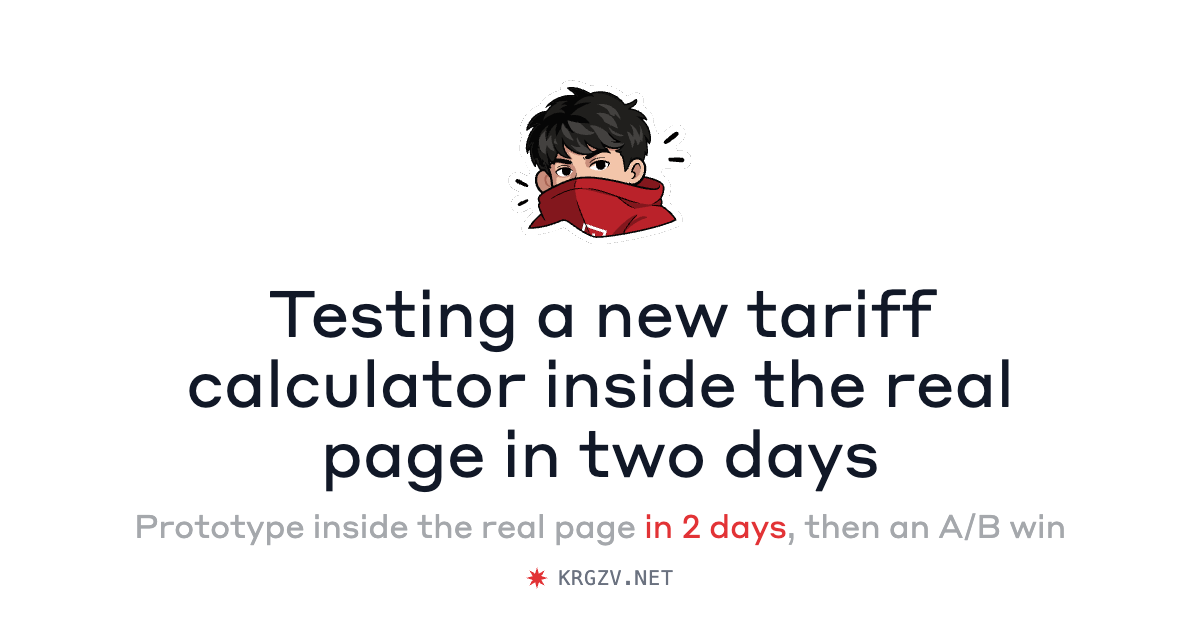
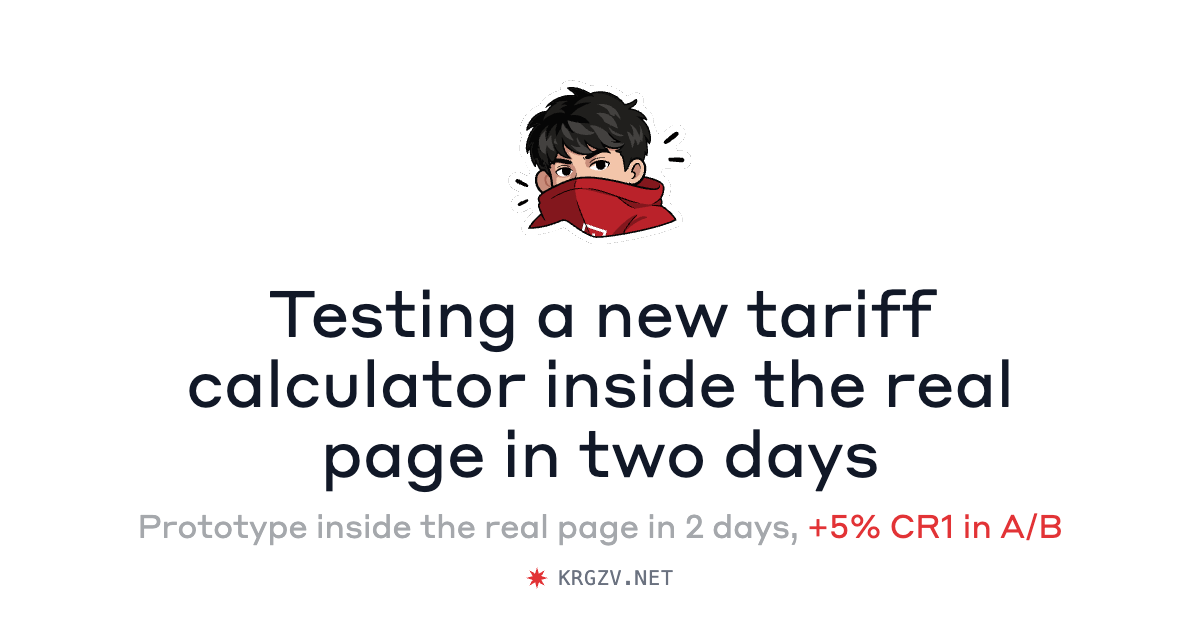
Calculator case: +5% CR1 in the A/B test — stats, results, home card, llms.txt, OG

Changed region(s): [[0.0925, 0.8143, 0.8942, 0.8746]]

diff --git a/cases/calculator.html b/cases/calculator.html
@@ -5,18 +5,18 @@
 <meta name="viewport" content="width=device-width, initial-scale=1">
 
 <title>Testing a new tariff calculator inside the real page in two days — Vladislav Kurguzov</title>
-<meta name="description" content="Case study: Alfa-Bank merchant acquiring — a working AI prototype embedded into the site page for research, then a redesigned tariff calculator that won its A/B test.">
+<meta name="description" content="Case study: Alfa-Bank merchant acquiring — a working AI prototype embedded into the site page for research, then a redesigned tariff calculator: +5% CR1 in an A/B test.">
 <meta property="og:type" content="article">
 <meta property="og:site_name" content="Vladislav Kurguzov">
 <meta property="og:url" content="https://krgzv.net/cases/calculator.html">
 <meta property="og:title" content="Testing a new tariff calculator inside the real page in two days">
-<meta property="og:description" content="Case study: Alfa-Bank merchant acquiring — a working AI prototype embedded into the site page for research, then a redesigned tariff calculator that won its A/B test.">
+<meta property="og:description" content="Case study: Alfa-Bank merchant acquiring — a working AI prototype embedded into the site page for research, then a redesigned tariff calculator: +5% CR1 in an A/B test.">
 <meta property="og:image" content="https://krgzv.net/assets/og/calculator.png">
 <meta property="og:image:width" content="1200">
 <meta property="og:image:height" content="630">
 <meta name="twitter:card" content="summary_large_image">
 <meta name="twitter:title" content="Testing a new tariff calculator inside the real page in two days">
-<meta name="twitter:description" content="Case study: Alfa-Bank merchant acquiring — a working AI prototype embedded into the site page for research, then a redesigned tariff calculator that won its A/B test.">
+<meta name="twitter:description" content="Case study: Alfa-Bank merchant acquiring — a working AI prototype embedded into the site page for research, then a redesigned tariff calculator: +5% CR1 in an A/B test.">
 <meta name="twitter:image" content="https://krgzv.net/assets/og/calculator.png">
 <link rel="icon" href="../favicon.ico" sizes="32x32">
 <link rel="icon" href="../favicon.svg" type="image/svg+xml">
@@ -78,7 +78,7 @@
 <div class="c-stats">
   <div><b>2 days</b><span>from Figma to a working calculator inside the page</span></div>
   <div><b>0 of 8</b><span>respondents noticed they were using a prototype</span></div>
-  <div><b>12</b><span>hypotheses checked in one research round</span></div>
+  <div><b>+5%</b><span>visitors who start an application (CR1) in the A/B test against the old calculator</span></div>
 </div>
 
 <figure class="c-ba clear">
@@ -205,7 +205,7 @@
 <section class="c-sec">
   <h2 class="c-label">Results</h2>
   <div class="c-body">
-    <p class="c-big">In the A/B test the new calculator <em>beat the old one</em>.</p>
+    <p class="c-big">In the A/B test the new calculator raised CR1 — visitors who start an application — by <em>+5%</em> against the old one.</p>
     <p>The prototype-in-the-page approach stayed with the team for research. I also proposed running A/B tests on such prototypes; it was postponed in favour of a planned platform solution.</p>
   </div>
 </section>
@@ -262,7 +262,7 @@
   <p class="lock-hint">need the password? ask me on <a href="https://t.me/ezzzz12345" target="_blank" rel="noopener">telegram</a> or <a href="https://www.linkedin.com/in/kvneasy/" target="_blank" rel="noopener">linkedin</a></p>
 </div>
 
-<script type="application/json" id="payload">{"v":2,"mode":"open","iter":310000,"salt":"ETPALEtuMJmWkcZhrAijvw==","frags":[]}</script>
+<script type="application/json" id="payload">{"v":2,"mode":"open","iter":310000,"salt":"VGHdtqfWyH3u2TJDjdqrKQ==","frags":[]}</script>
 <script src="cases.js?v=421235a7"></script>
 <script src="case-ui.js?v=ce3df22f"></script>
 <script src="lock.js?v=e1aca242"></script>

diff --git a/index.html b/index.html
@@ -812,7 +812,7 @@ footer.wrap{margin-top:var(--gap)}
             <div class="device"><img src="assets/case-support.webp" alt="Support number with a QR code to call" draggable="false"></div>
           </a>
           <a class="slide" href="cases/calculator.html" data-snd="click">
-            <div class="ov"><h3>A new tariff calculator, tested inside the real page in two days</h3><div class="pills"><span>AI prototype</span><span>won the A/B test</span></div></div>
+            <div class="ov"><h3>A new tariff calculator, tested inside the real page in two days</h3><div class="pills"><span>AI prototype</span><span>+5% CR1 in A/B</span></div></div>
             <div class="device device-wide"><img src="assets/case-calculator.webp" alt="The new tariff calculator" draggable="false"></div>
           </a>
           <a class="slide" href="cases/plugin.html" data-snd="click">

diff --git a/NOTES.md b/NOTES.md
@@ -140,4 +140,4 @@ Source: slides from the demo of the Site Development & Primary Sales Platform Di
 - Source: Notion «Калькулятор тарифов: прототип внутри страницы за 2 дня» (EN site text at the top, raw answers below). Images pulled through `kvneasy.notion.site/image/<s3 url>?table=block&id=<block>` (public page, no signed links needed).
 - Built with no `data-nda` fragments → `lock.js` now removes the code screen when an open case hides nothing. One shared code for every hidden fragment on the site (the default in encrypt-case.mjs); opening it once opens all cases. All cases rebuilt 2026-10-03.
 - Timeline (Vlad, 2026-10-03): research 9 Apr – 21 May 2026 on the prototype; his work 21 May – end of June (findings → options → defended → approved); end of Q2 handoff (cases, prototype, code snippets) + analytics, design checks, designers' working group; Q3 development.
-- Still missing: A/B lift (+X%, metric, duration, date) → stats row + Results + timeline; card-swap video.
+- A/B: +5% CR1 vs the old calculator (Vlad, 2026-10-03) — in stats, Results, home card pill, llms.txt, OG. Date / duration / absolute CR1 unknown (absolutes would go under data-nda). Still missing: card-swap video.
